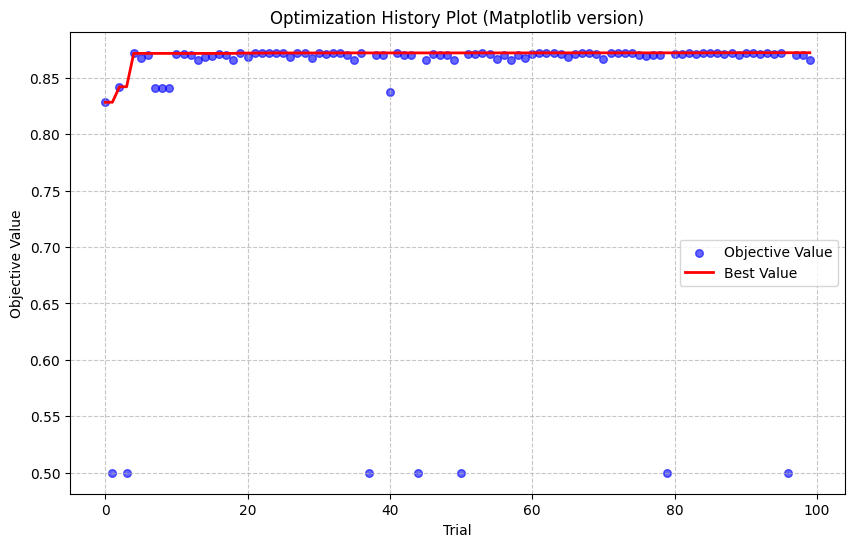
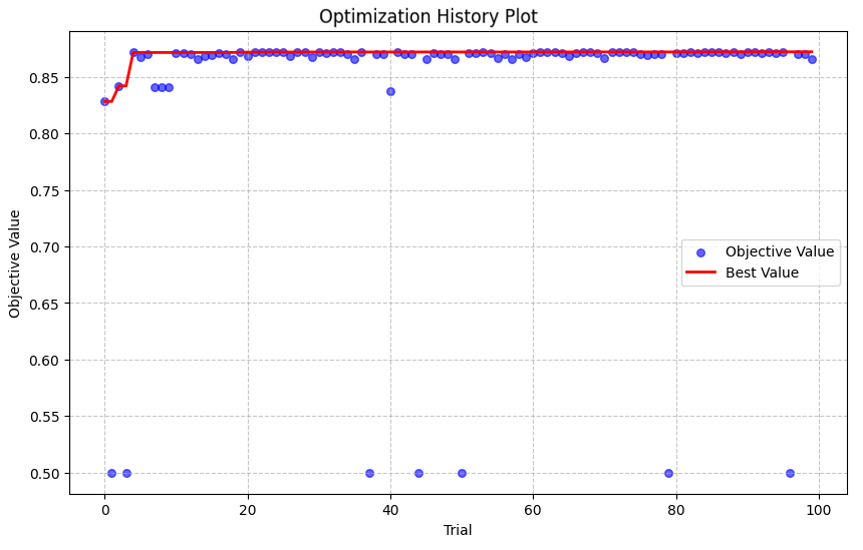
Changed L3_P1 plot graph + Finished L3_P1 paragraph

diff --git a/docs/aml_group_labs/Lab_Report.md b/docs/aml_group_labs/Lab_Report.md
@@ -42,6 +42,12 @@ The best Pruning result in terms of evaluation accuracy for both ```L1-Norm``` a
 # Lab 2: Neural Architecture Search
 
 # Lab 3: Mixed Precision Search
+## Part 1
+
+After running 100 trials with Optuna TPESampler, the maximum achieved accuracy is found to be 0.87216. The plot optimization history plot also shows the best accuracy has been reached in the first 10 trials, with the remaining trials attemping to improve but didn't find any better parameters. 
 ![Mixed Precision Search](.\attachments\T6_1_100epoch.png)
+
+## Part 2
+
 
 # Lab 4: (Software Stream) Performance Engineering
